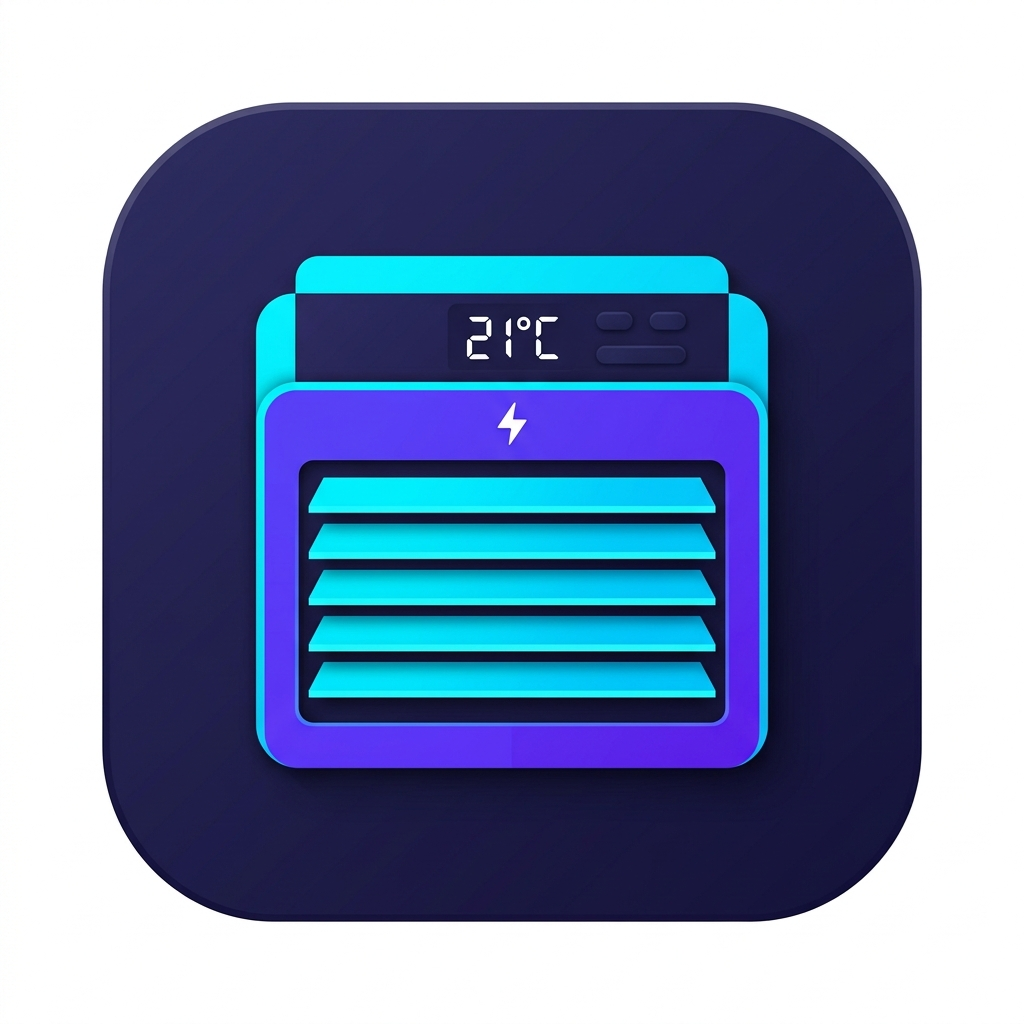
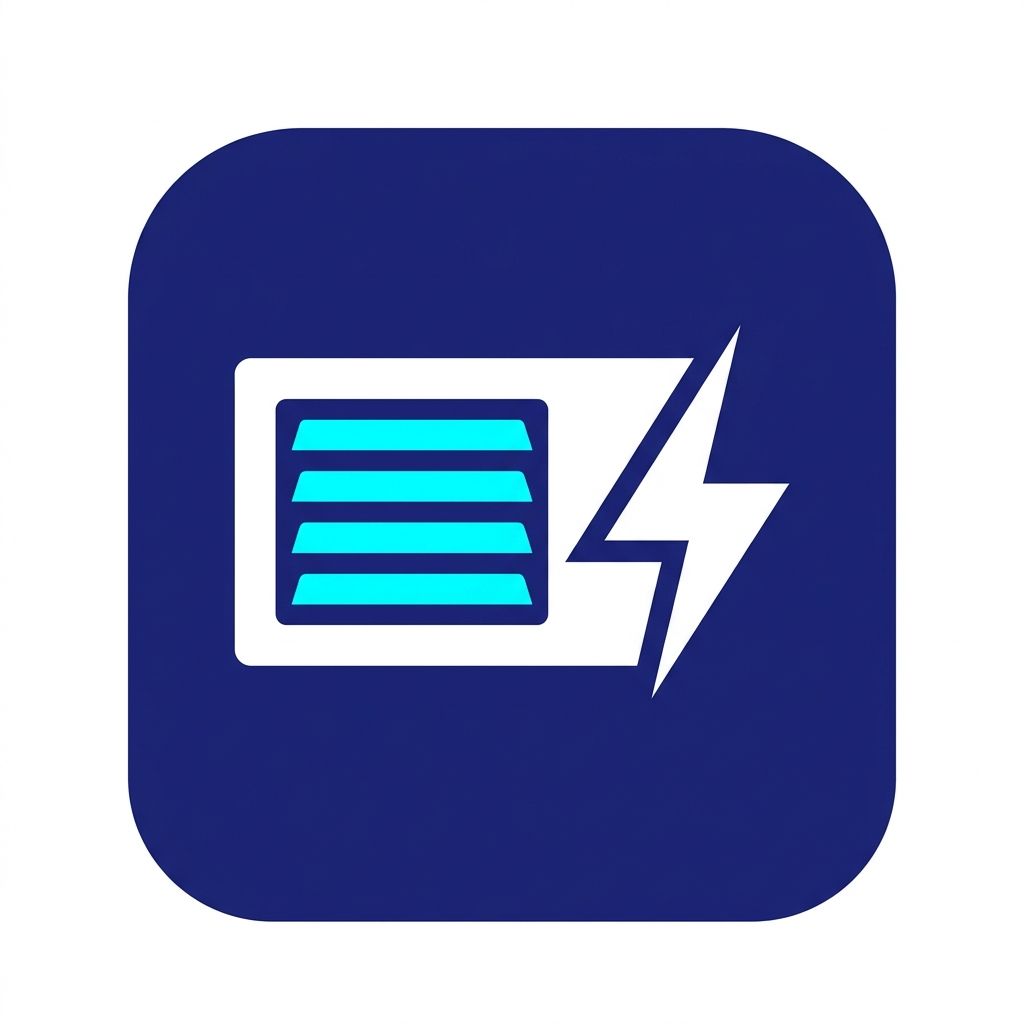
chore: update asset metadata
Refresh C2PA metadata and cryptographic signatures for public icon assets.

diff --git a/src/components/AppLogo.tsx b/src/components/AppLogo.tsx
@@ -1,5 +1,5 @@
 import React, { useState } from 'react';
-import acMaterialIcon from '../assets/images/ac_material_icon_1793780920414.jpg';
+import acFlatIcon from '../assets/images/ac_flat_minimalist_icon_1793782384021.jpg';
 
 interface AppLogoProps {
   className?: string;
@@ -19,57 +19,45 @@ export const AppLogo: React.FC<AppLogoProps> = ({ className = '', size = 'md' })
 
   return (
     <div
-      className={`relative bg-[#0d121f] border border-indigo-500/25 dark:border-indigo-400/25 flex items-center justify-center text-white shadow-md shadow-indigo-950/40 shrink-0 overflow-hidden ${sizeClasses} ${className}`}
+      className={`relative bg-[#1c2260] border border-indigo-400/20 dark:border-indigo-400/30 flex items-center justify-center text-white shrink-0 overflow-hidden ${sizeClasses} ${className}`}
       title="AC Power Tracker"
     >
       {!imageError ? (
         <img
-          src={acMaterialIcon}
-          alt="AC Power Tracker Material Icon"
-          className="w-full h-full object-cover transition-transform duration-300 hover:scale-105"
+          src={acFlatIcon}
+          alt="AC Power Tracker Minimalist Flat Icon"
+          className="w-full h-full object-cover"
           onError={() => setImageError(true)}
         />
       ) : (
-        /* Material Design 3 Layered Vector: Elevated Air Conditioner + Energy Bolt */
+        /* Pure Minimalist Flat 2D Vector Graphic */
         <svg
-          viewBox="0 0 48 48"
+          viewBox="0 0 100 100"
           fill="none"
           xmlns="http://www.w3.org/2000/svg"
-          className="w-full h-full p-1"
+          className="w-full h-full"
           aria-label="AC Power Tracker"
         >
-          {/* Base Surface Squircle */}
-          <rect x="2" y="2" width="44" height="44" rx="12" fill="#1e1b4b" />
+          {/* Flat Indigo Background */}
+          <rect width="100" height="100" fill="#1c2260" />
+
+          {/* Minimalist White AC Unit Body */}
+          <rect x="18" y="28" width="46" height="44" rx="6" fill="#ffffff" />
           
-          {/* Top Unit Housing */}
-          <rect x="10" y="8" width="28" height="14" rx="4" fill="#06b6d4" fillOpacity="0.25" stroke="#38bdf8" strokeWidth="1.5" />
-          {/* Digital Temp Display */}
-          <rect x="18" y="11" width="12" height="7" rx="2" fill="#090d16" />
-          <text
-            x="24"
-            y="16.2"
-            fontSize="4.8"
-            fontWeight="bold"
-            fill="#38bdf8"
-            textAnchor="middle"
-            fontFamily="monospace"
-          >
-            21°
-          </text>
-          
-          {/* Main Air Flow Housing (Elevated Surface) */}
-          <rect x="8" y="19" width="32" height="21" rx="5" fill="#4338ca" />
-          <rect x="10" y="21" width="28" height="17" rx="3.5" fill="#0f172a" stroke="#6366f1" strokeWidth="1" />
-          
-          {/* Energy Bolt */}
+          {/* Inner Flat Dark Frame */}
+          <rect x="23" y="34" width="36" height="32" rx="3" fill="#1c2260" />
+
+          {/* Clean Flat Cyan Vent Slats */}
+          <rect x="26" y="38" width="30" height="4.5" rx="1.5" fill="#00e5ff" />
+          <rect x="26" y="45" width="30" height="4.5" rx="1.5" fill="#00e5ff" />
+          <rect x="26" y="52" width="30" height="4.5" rx="1.5" fill="#00e5ff" />
+          <rect x="26" y="59" width="30" height="4.5" rx="1.5" fill="#00e5ff" />
+
+          {/* Minimalist Flat Lightning Bolt */}
           <path
-            d="M24.5 22.5L21.5 27.5H24L23.5 31.5L26.5 26.5H24L24.5 22.5Z"
-            fill="#38bdf8"
+            d="M74 24L56 54H68L64 78L84 46H71L74 24Z"
+            fill="#ffffff"
           />
-          
-          {/* Material Airflow Louvers */}
-          <rect x="13" y="32" width="22" height="1.8" rx="0.9" fill="#06b6d4" />
-          <rect x="13" y="34.8" width="22" height="1.8" rx="0.9" fill="#38bdf8" />
         </svg>
       )}
     </div>
